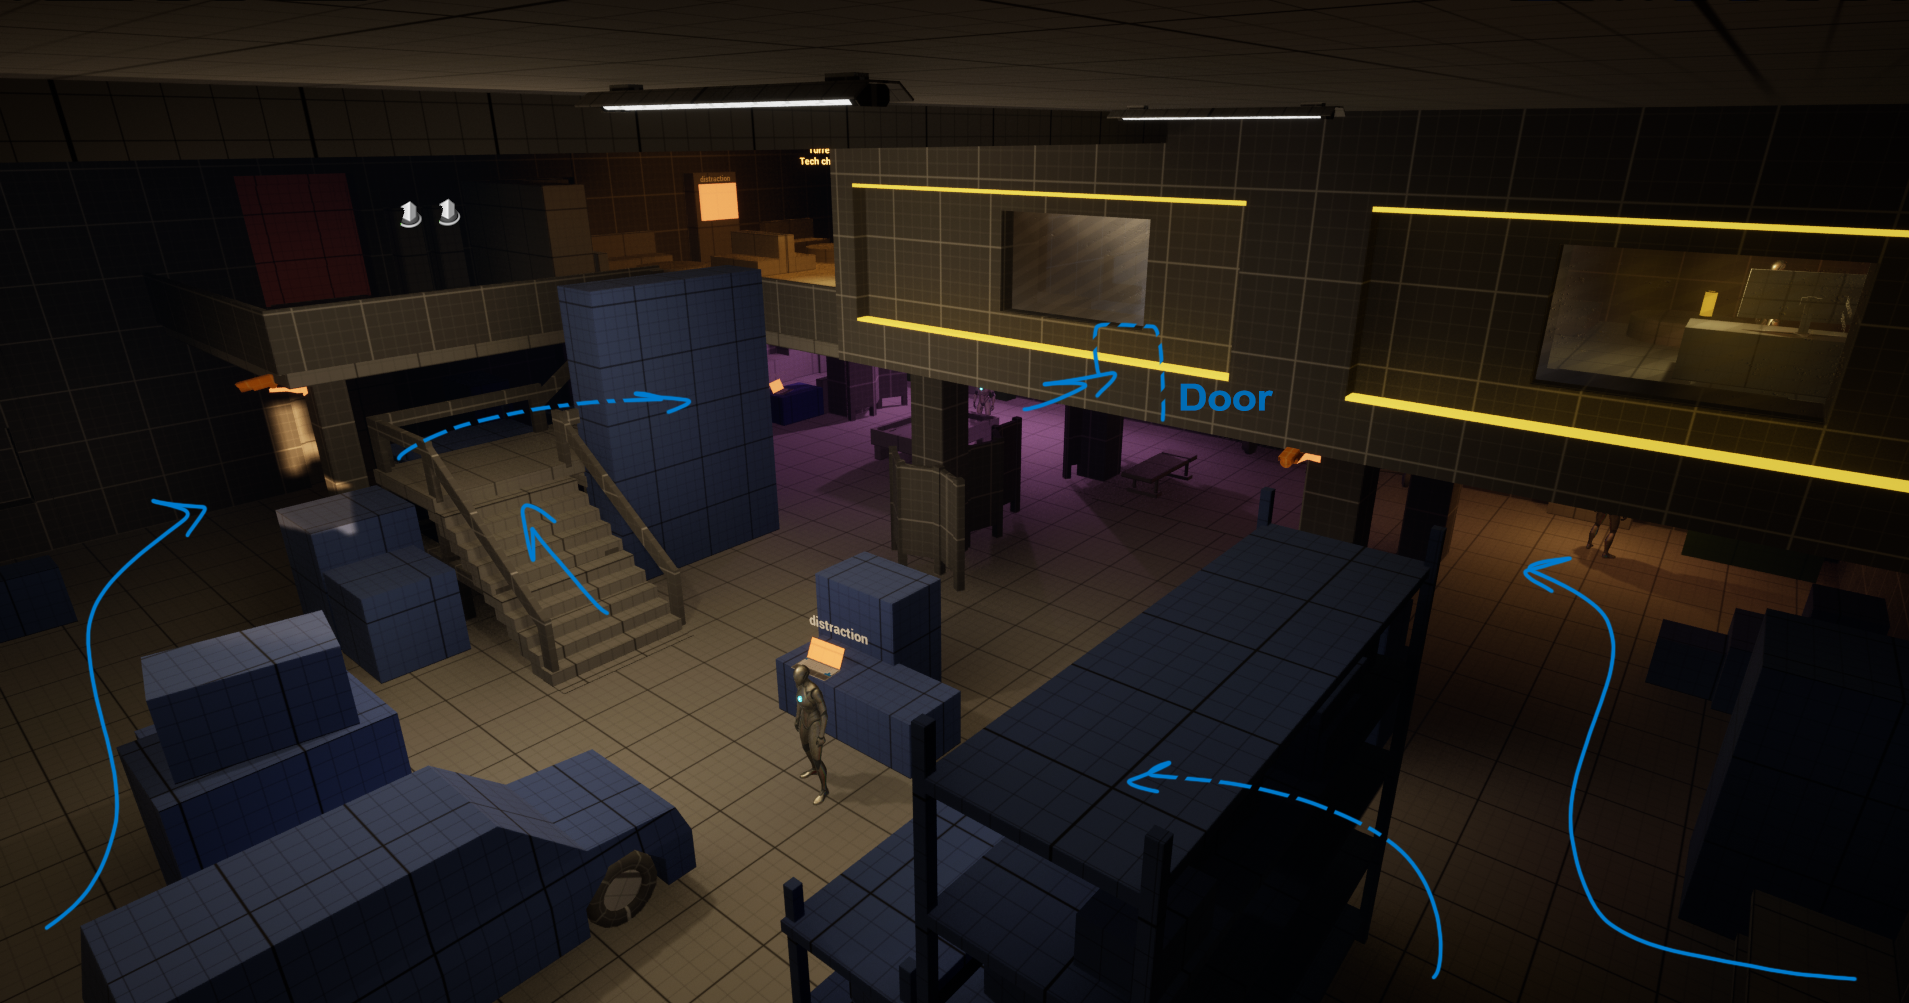
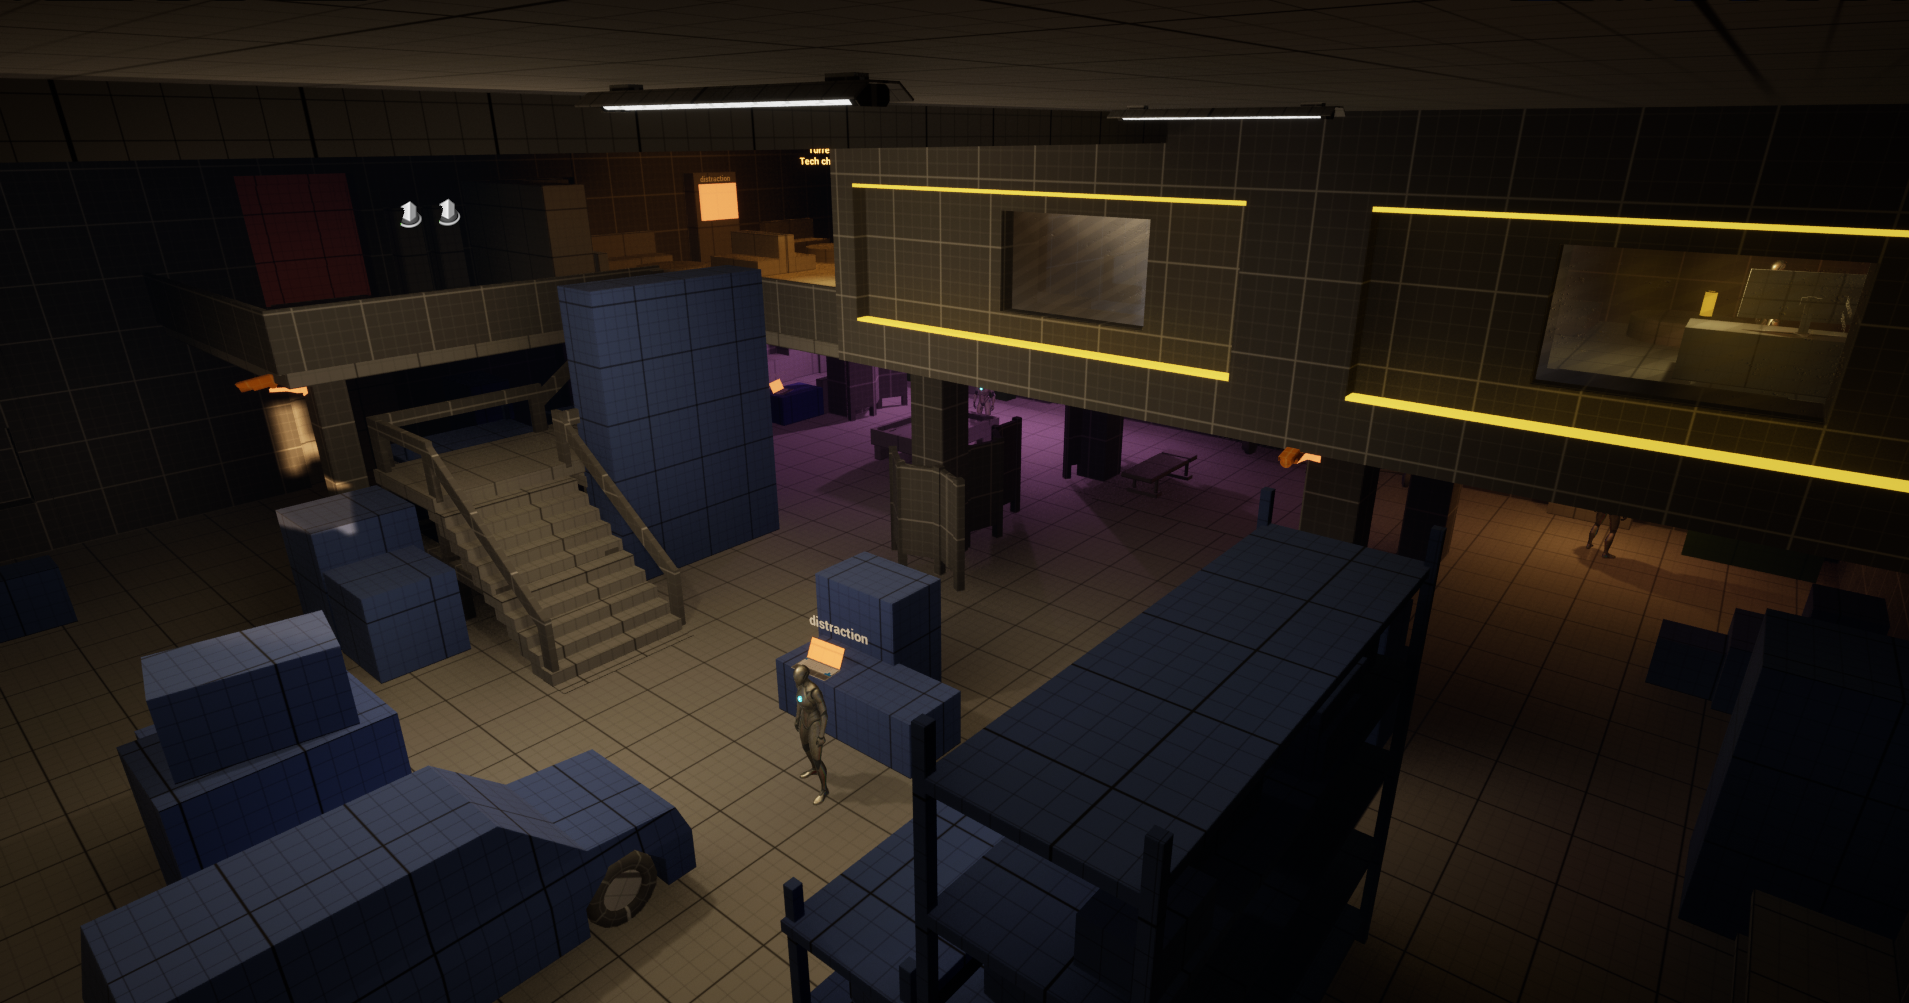
Gig fix

diff --git a/data/showcase/CGMA_Gig.md b/data/showcase/CGMA_Gig.md
@@ -103,10 +103,10 @@ Inside, I also placed many cover points to support combat.
 
 
 <a href="/assets/Portfolio/Personal_works/CGMA_Gig/Screenshot_15_cop.png" data-lightbox="refs" data-title="Refs">
-  <img src="/assets/Portfolio/Personal_works/CGMA_Gig/Screenshot_15_cop.png.png">
+  <img src="/assets/Portfolio/Personal_works/CGMA_Gig/Screenshot_15_cop.png">
 </a>
 <a href="/assets/Portfolio/Personal_works/CGMA_Gig/Screenshot_16.png" data-lightbox="refs" data-title="Refs">
-  <img src="/assets/Portfolio/Personal_works/CGMA_Gig/Screenshot_16.png.png">
+  <img src="/assets/Portfolio/Personal_works/CGMA_Gig/Screenshot_16.png">
 </a>
 
 <hr>